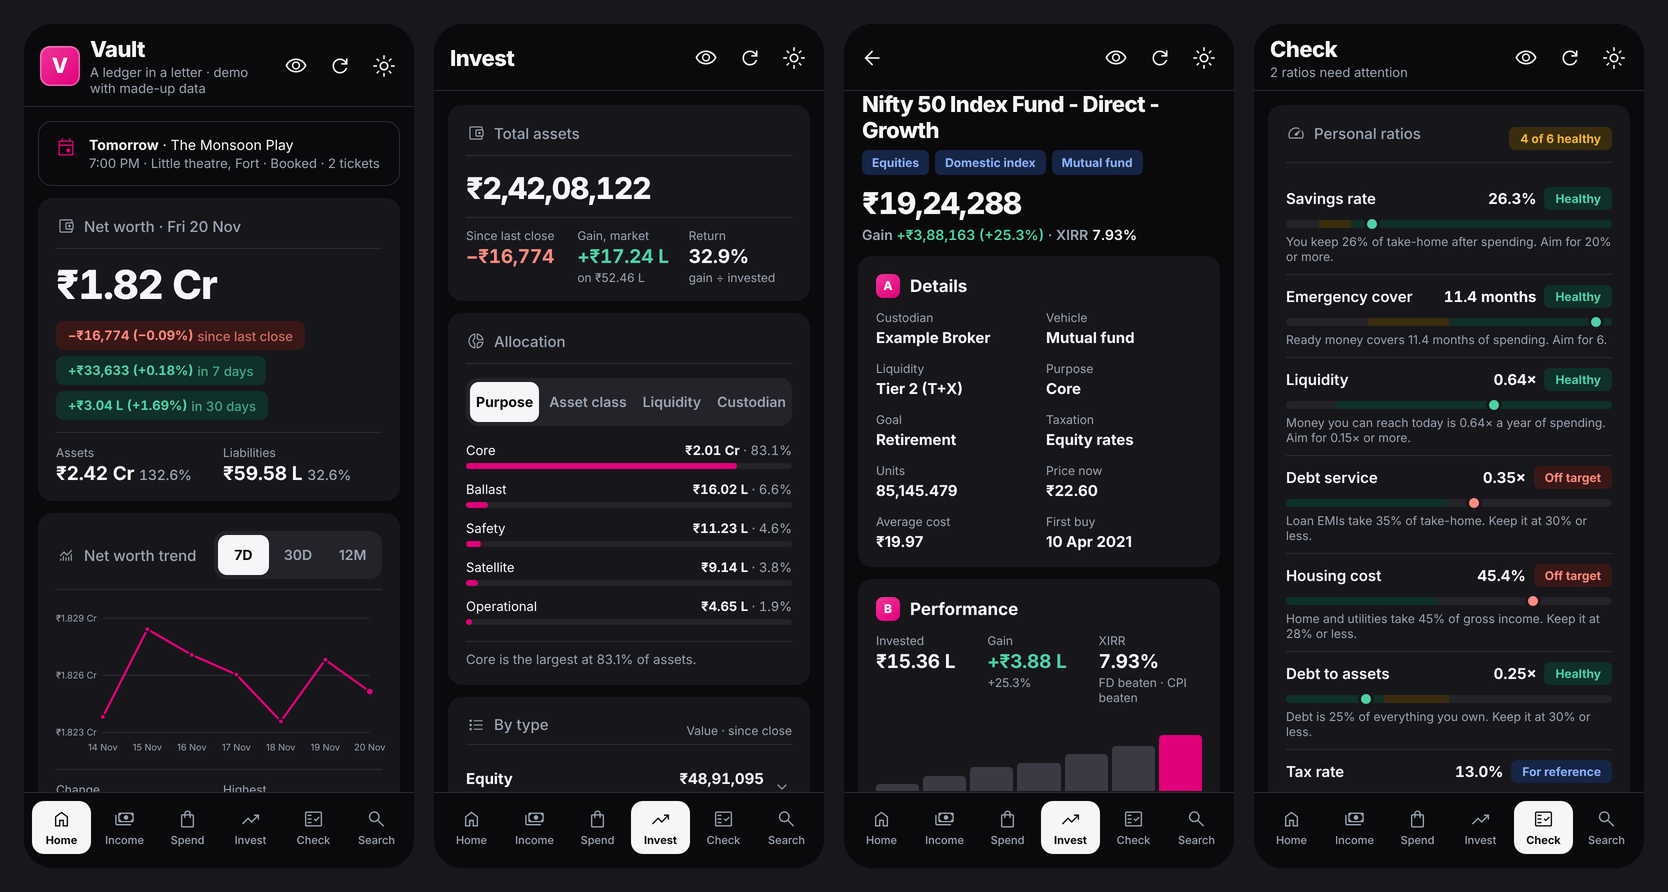
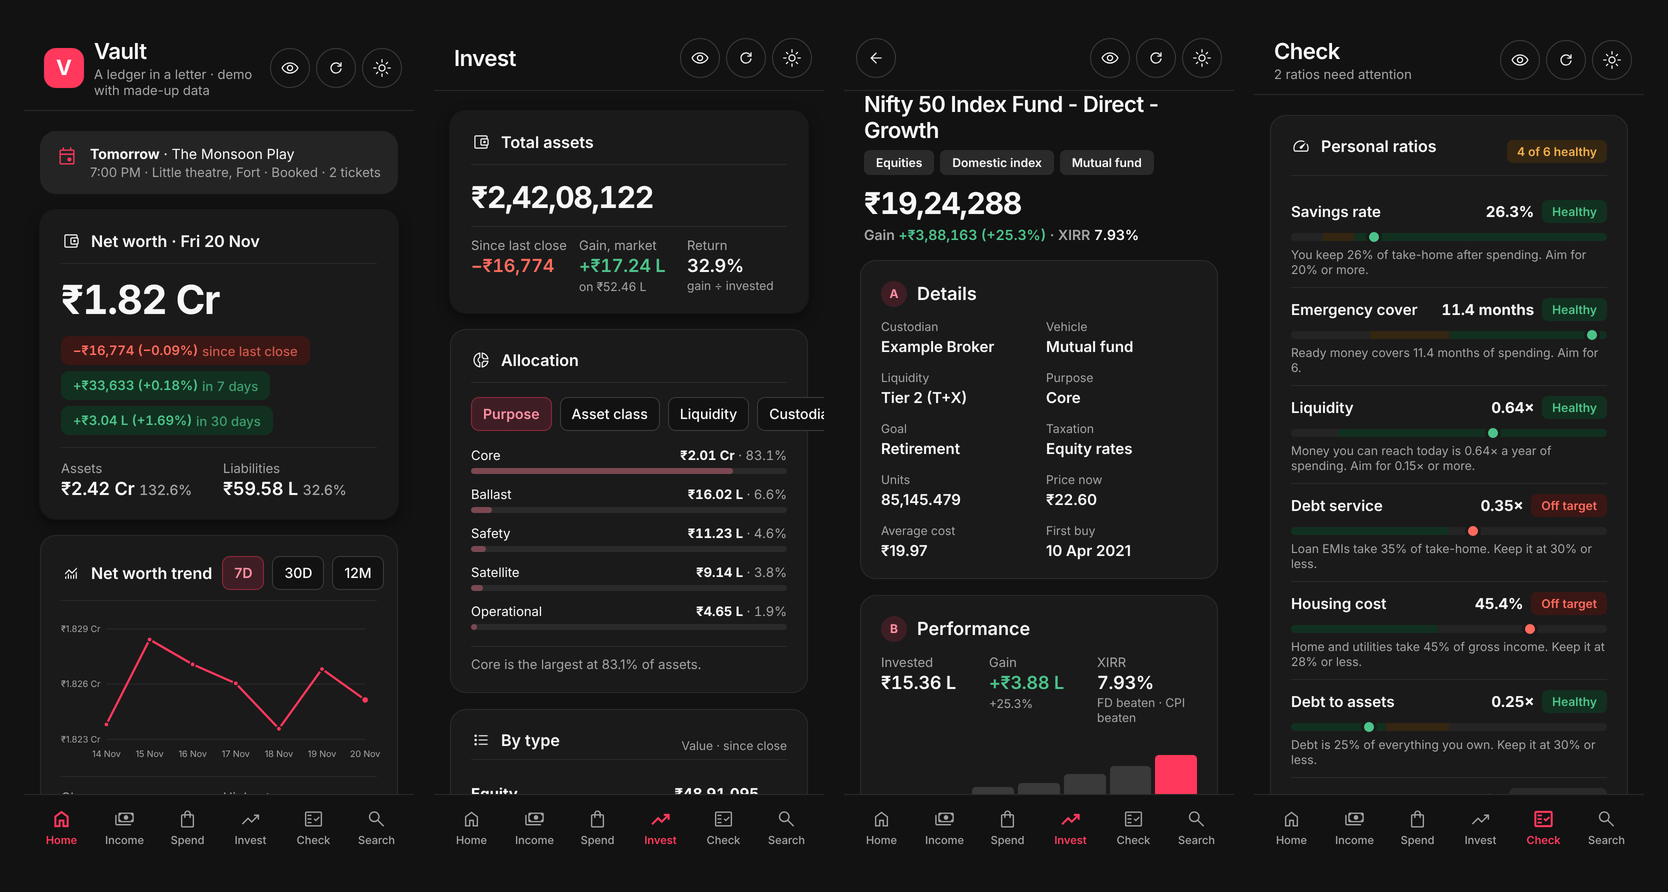
Updated the look and feel (UI) of the app

diff --git a/apps-script/Index.html b/apps-script/Index.html
@@ -132,6 +132,78 @@ button.card{border:0}
 @media (prefers-reduced-motion:reduce){.sbar .field.anim{animation:none}.sbar .ph{transition:none}}
 button.card.rowbtn{border-bottom:0}
 </style>
+<style>
+/* Theme: warm marketplace look. White canvas, one coral accent used sparingly, soft radii, modest weights, hairlines over fills, one shadow tier. */
+:root{--bg:#FFFFFF;--card:#FFFFFF;--well:#F7F7F7;--ink:#222222;--mute:#6A6A6A;--line:#EBEBEB;--soft:#DDDDDD;--acc:#FF385C;--acc2:#E00B41;--pos:#008A05;--posbg:#EBF7EC;--neg:#C13515;--negbg:#FDEDEA;--amber:#B4690E;--amberbg:#FFF5E6;--blue:#222222;--bluebg:#F2F2F2;--scrim:rgba(0,0,0,.5);--lift:0 0 0 1px rgba(0,0,0,.02),0 2px 6px rgba(0,0,0,.04),0 4px 8px rgba(0,0,0,.1);--shadow:var(--lift);--selbg:rgba(255,56,92,.10);--selbd:rgba(255,56,92,.32);--selfg:#D70F45;--bar:rgba(255,56,92,.30)}
+html.dark{--bg:#121212;--card:#1A1A1A;--well:#242424;--ink:#F7F7F7;--mute:#A3A3A3;--line:#2A2A2A;--soft:#3A3A3A;--acc:#FF385C;--acc2:#FF5A76;--pos:#4CC38A;--posbg:#12301F;--neg:#FF6B5E;--negbg:#3A1714;--amber:#F2B04B;--amberbg:#352612;--blue:#F7F7F7;--bluebg:#2A2A2A;--scrim:rgba(0,0,0,.6);--lift:0 0 0 1px rgba(255,255,255,.04),0 4px 12px rgba(0,0,0,.5);--selbg:rgba(255,56,92,.16);--selbd:rgba(255,56,92,.40);--selfg:#FF8FA3;--bar:rgba(255,120,145,.38);color-scheme:dark}
+html,body{font-family:Inter,-apple-system,system-ui,Roboto,'Helvetica Neue',sans-serif}
+/* Top bar */
+header.top{padding:14px 12px 12px 20px;border-bottom:1px solid var(--line)}
+.logo{background:var(--acc);border-radius:12px;box-shadow:none;font-weight:700}
+h1{font-size:22px;font-weight:600;letter-spacing:-.44px}
+.hsub{font-size:13px;color:var(--mute)}
+header.top .ib{width:40px;height:40px;border-radius:999px;border:1px solid var(--soft);background:var(--bg);margin-left:6px}
+header.top .ib .ms{font-size:20px}
+.ib:hover{background:var(--well)}
+/* Canvas and cards */
+main{padding:20px 16px 32px;gap:16px}
+.card{background:var(--card);border:1px solid var(--line);border-radius:16px;padding:20px 20px 18px}
+.card:has(.big){box-shadow:var(--lift);border-color:transparent}
+.ttl{font-size:16px;font-weight:600;color:var(--ink);gap:10px}
+.ttl .ms{font-size:20px;color:var(--ink)}
+.card > .ttl:first-child,.card > div:first-child:has(> .ttl){border-bottom:1px solid var(--line)}
+.sh,.th,.w.h{font-size:12px;font-weight:600;letter-spacing:.2px;text-transform:none;color:var(--mute)}
+.note{color:var(--mute)}
+/* Numbers: the one loud moment is net worth */
+.big{font-weight:700;letter-spacing:-1.2px}
+.stat .l{font-size:13px}
+.stat .n{font-size:18px;font-weight:600;letter-spacing:-.2px}
+.kv span:nth-child(2){font-weight:600}
+.hd{font-size:18px;font-weight:600}
+.step{width:26px;height:26px;border-radius:999px;background:var(--selbg);color:var(--selfg);font-weight:700}
+/* Pills, badges, chips: fully rounded */
+.dp{border-radius:8px;padding:6px 12px;font-weight:600}
+.pill{border-radius:6px;padding:4px 10px;font-size:12px;font-weight:600}
+.chip{border-radius:6px;background:var(--bluebg);color:var(--ink);font-weight:600;padding:5px 12px}
+.tag{border-radius:6px;font-weight:600;padding:3px 9px}
+.box{border-radius:12px;font-weight:500}
+/* Filter pills instead of segmented controls */
+.seg{background:transparent;padding:0;gap:8px;border-radius:0}
+.seg button{min-height:36px;padding:0 14px;border:1px solid var(--soft);border-radius:8px;background:var(--bg);color:var(--ink);font-weight:500}
+.seg button.on{background:var(--selbg);border-color:var(--selbd);color:var(--selfg);font-weight:600}
+.seg[style*="width:168px"]{width:auto !important}
+.seg button{padding:0 11px;min-height:34px}
+div:has(> .seg) > .ttl{white-space:nowrap}
+.mchips button{border-radius:8px;border-color:var(--soft);font-weight:500;min-height:36px}
+.mchips button.on{background:var(--selbg);border-color:var(--selbd);color:var(--selfg);font-weight:600}
+.sel{border-radius:8px;border-color:var(--soft);background:var(--bg)}
+.recent button{border-radius:8px;border-color:var(--soft);font-weight:500}
+/* Bars: ink fills; coral only on what needs a look */
+.trk{background:var(--line);height:6px}
+.fil{background:var(--bar)}
+.fil.over{background:var(--acc)}
+.event{background:var(--well);border:0;border-radius:16px}
+.event .ms{color:var(--acc)}
+.w.t{border-bottom:2px solid var(--ink)}
+/* Bottom navigation: no fill, coral marks where you are */
+nav.tabs{border-top:1px solid var(--line);padding-top:6px}
+nav.tabs button{border-radius:0;font-size:11px;font-weight:500;color:var(--mute);background:transparent}
+nav.tabs button.on{background:transparent;color:var(--acc);font-weight:600}
+nav.tabs button.on .ms{font-variation-settings:'wght' 500}
+/* Sheets */
+.sheet section{border-radius:24px 24px 0 0;box-shadow:var(--lift)}
+.sheet .shead .ttl{font-size:20px;font-weight:600;letter-spacing:-.2px}
+.sheet .shead .ib{border-radius:999px;background:var(--well)}
+.grab div{width:40px;background:var(--soft)}
+/* Search: a pill with a coral orb */
+.sbar{padding-top:12px}
+.sbar .field{height:56px;border:1px solid var(--line);border-radius:12px;box-shadow:var(--lift);padding:0 6px 0 18px}
+.sbar .collapse{width:48px;height:48px;border-radius:12px;background:var(--well)}
+.qbox{border-radius:12px;border-color:var(--soft)}
+.qbox:focus-within{border-color:var(--ink);border-width:2px}
+.sbar .field > .ms:first-child{order:9;flex:none;width:40px;height:40px;border-radius:8px;background:var(--acc);color:#FFFFFF;display:inline-flex;align-items:center;justify-content:center;font-size:20px}
+.sbar .ph{left:18px;right:56px}
+</style>
 </head>
 <body>
 <div class="app" id="app"><div class="center"><div class="logo">V</div>Reading your sheet…</div></div>

diff --git a/docs/index.html b/docs/index.html
@@ -132,6 +132,78 @@ button.card{border:0}
 @media (prefers-reduced-motion:reduce){.sbar .field.anim{animation:none}.sbar .ph{transition:none}}
 button.card.rowbtn{border-bottom:0}
 </style>
+<style>
+/* Theme: warm marketplace look. White canvas, one coral accent used sparingly, soft radii, modest weights, hairlines over fills, one shadow tier. */
+:root{--bg:#FFFFFF;--card:#FFFFFF;--well:#F7F7F7;--ink:#222222;--mute:#6A6A6A;--line:#EBEBEB;--soft:#DDDDDD;--acc:#FF385C;--acc2:#E00B41;--pos:#008A05;--posbg:#EBF7EC;--neg:#C13515;--negbg:#FDEDEA;--amber:#B4690E;--amberbg:#FFF5E6;--blue:#222222;--bluebg:#F2F2F2;--scrim:rgba(0,0,0,.5);--lift:0 0 0 1px rgba(0,0,0,.02),0 2px 6px rgba(0,0,0,.04),0 4px 8px rgba(0,0,0,.1);--shadow:var(--lift);--selbg:rgba(255,56,92,.10);--selbd:rgba(255,56,92,.32);--selfg:#D70F45;--bar:rgba(255,56,92,.30)}
+html.dark{--bg:#121212;--card:#1A1A1A;--well:#242424;--ink:#F7F7F7;--mute:#A3A3A3;--line:#2A2A2A;--soft:#3A3A3A;--acc:#FF385C;--acc2:#FF5A76;--pos:#4CC38A;--posbg:#12301F;--neg:#FF6B5E;--negbg:#3A1714;--amber:#F2B04B;--amberbg:#352612;--blue:#F7F7F7;--bluebg:#2A2A2A;--scrim:rgba(0,0,0,.6);--lift:0 0 0 1px rgba(255,255,255,.04),0 4px 12px rgba(0,0,0,.5);--selbg:rgba(255,56,92,.16);--selbd:rgba(255,56,92,.40);--selfg:#FF8FA3;--bar:rgba(255,120,145,.38);color-scheme:dark}
+html,body{font-family:Inter,-apple-system,system-ui,Roboto,'Helvetica Neue',sans-serif}
+/* Top bar */
+header.top{padding:14px 12px 12px 20px;border-bottom:1px solid var(--line)}
+.logo{background:var(--acc);border-radius:12px;box-shadow:none;font-weight:700}
+h1{font-size:22px;font-weight:600;letter-spacing:-.44px}
+.hsub{font-size:13px;color:var(--mute)}
+header.top .ib{width:40px;height:40px;border-radius:999px;border:1px solid var(--soft);background:var(--bg);margin-left:6px}
+header.top .ib .ms{font-size:20px}
+.ib:hover{background:var(--well)}
+/* Canvas and cards */
+main{padding:20px 16px 32px;gap:16px}
+.card{background:var(--card);border:1px solid var(--line);border-radius:16px;padding:20px 20px 18px}
+.card:has(.big){box-shadow:var(--lift);border-color:transparent}
+.ttl{font-size:16px;font-weight:600;color:var(--ink);gap:10px}
+.ttl .ms{font-size:20px;color:var(--ink)}
+.card > .ttl:first-child,.card > div:first-child:has(> .ttl){border-bottom:1px solid var(--line)}
+.sh,.th,.w.h{font-size:12px;font-weight:600;letter-spacing:.2px;text-transform:none;color:var(--mute)}
+.note{color:var(--mute)}
+/* Numbers: the one loud moment is net worth */
+.big{font-weight:700;letter-spacing:-1.2px}
+.stat .l{font-size:13px}
+.stat .n{font-size:18px;font-weight:600;letter-spacing:-.2px}
+.kv span:nth-child(2){font-weight:600}
+.hd{font-size:18px;font-weight:600}
+.step{width:26px;height:26px;border-radius:999px;background:var(--selbg);color:var(--selfg);font-weight:700}
+/* Pills, badges, chips: fully rounded */
+.dp{border-radius:8px;padding:6px 12px;font-weight:600}
+.pill{border-radius:6px;padding:4px 10px;font-size:12px;font-weight:600}
+.chip{border-radius:6px;background:var(--bluebg);color:var(--ink);font-weight:600;padding:5px 12px}
+.tag{border-radius:6px;font-weight:600;padding:3px 9px}
+.box{border-radius:12px;font-weight:500}
+/* Filter pills instead of segmented controls */
+.seg{background:transparent;padding:0;gap:8px;border-radius:0}
+.seg button{min-height:36px;padding:0 14px;border:1px solid var(--soft);border-radius:8px;background:var(--bg);color:var(--ink);font-weight:500}
+.seg button.on{background:var(--selbg);border-color:var(--selbd);color:var(--selfg);font-weight:600}
+.seg[style*="width:168px"]{width:auto !important}
+.seg button{padding:0 11px;min-height:34px}
+div:has(> .seg) > .ttl{white-space:nowrap}
+.mchips button{border-radius:8px;border-color:var(--soft);font-weight:500;min-height:36px}
+.mchips button.on{background:var(--selbg);border-color:var(--selbd);color:var(--selfg);font-weight:600}
+.sel{border-radius:8px;border-color:var(--soft);background:var(--bg)}
+.recent button{border-radius:8px;border-color:var(--soft);font-weight:500}
+/* Bars: ink fills; coral only on what needs a look */
+.trk{background:var(--line);height:6px}
+.fil{background:var(--bar)}
+.fil.over{background:var(--acc)}
+.event{background:var(--well);border:0;border-radius:16px}
+.event .ms{color:var(--acc)}
+.w.t{border-bottom:2px solid var(--ink)}
+/* Bottom navigation: no fill, coral marks where you are */
+nav.tabs{border-top:1px solid var(--line);padding-top:6px}
+nav.tabs button{border-radius:0;font-size:11px;font-weight:500;color:var(--mute);background:transparent}
+nav.tabs button.on{background:transparent;color:var(--acc);font-weight:600}
+nav.tabs button.on .ms{font-variation-settings:'wght' 500}
+/* Sheets */
+.sheet section{border-radius:24px 24px 0 0;box-shadow:var(--lift)}
+.sheet .shead .ttl{font-size:20px;font-weight:600;letter-spacing:-.2px}
+.sheet .shead .ib{border-radius:999px;background:var(--well)}
+.grab div{width:40px;background:var(--soft)}
+/* Search: a pill with a coral orb */
+.sbar{padding-top:12px}
+.sbar .field{height:56px;border:1px solid var(--line);border-radius:12px;box-shadow:var(--lift);padding:0 6px 0 18px}
+.sbar .collapse{width:48px;height:48px;border-radius:12px;background:var(--well)}
+.qbox{border-radius:12px;border-color:var(--soft)}
+.qbox:focus-within{border-color:var(--ink);border-width:2px}
+.sbar .field > .ms:first-child{order:9;flex:none;width:40px;height:40px;border-radius:8px;background:var(--acc);color:#FFFFFF;display:inline-flex;align-items:center;justify-content:center;font-size:20px}
+.sbar .ph{left:18px;right:56px}
+</style>
 </head>
 <body>
 <div class="app" id="app"><div class="center"><div class="logo">V</div>Reading your sheet…</div></div>

diff --git a/README.md b/README.md
@@ -3,7 +3,7 @@
 
 ### A ledger in a letter.
 
-Know where every rupee is, what it earns and what it costs you. Every single day.
+Where every rupee goes, and how it grows. Every single day.
 
 <a href="https://github.com/Floydimus02/Vault/stargazers"><img src="https://img.shields.io/github/stars/Floydimus02/Vault?style=social" alt="GitHub stars"></a>
 
